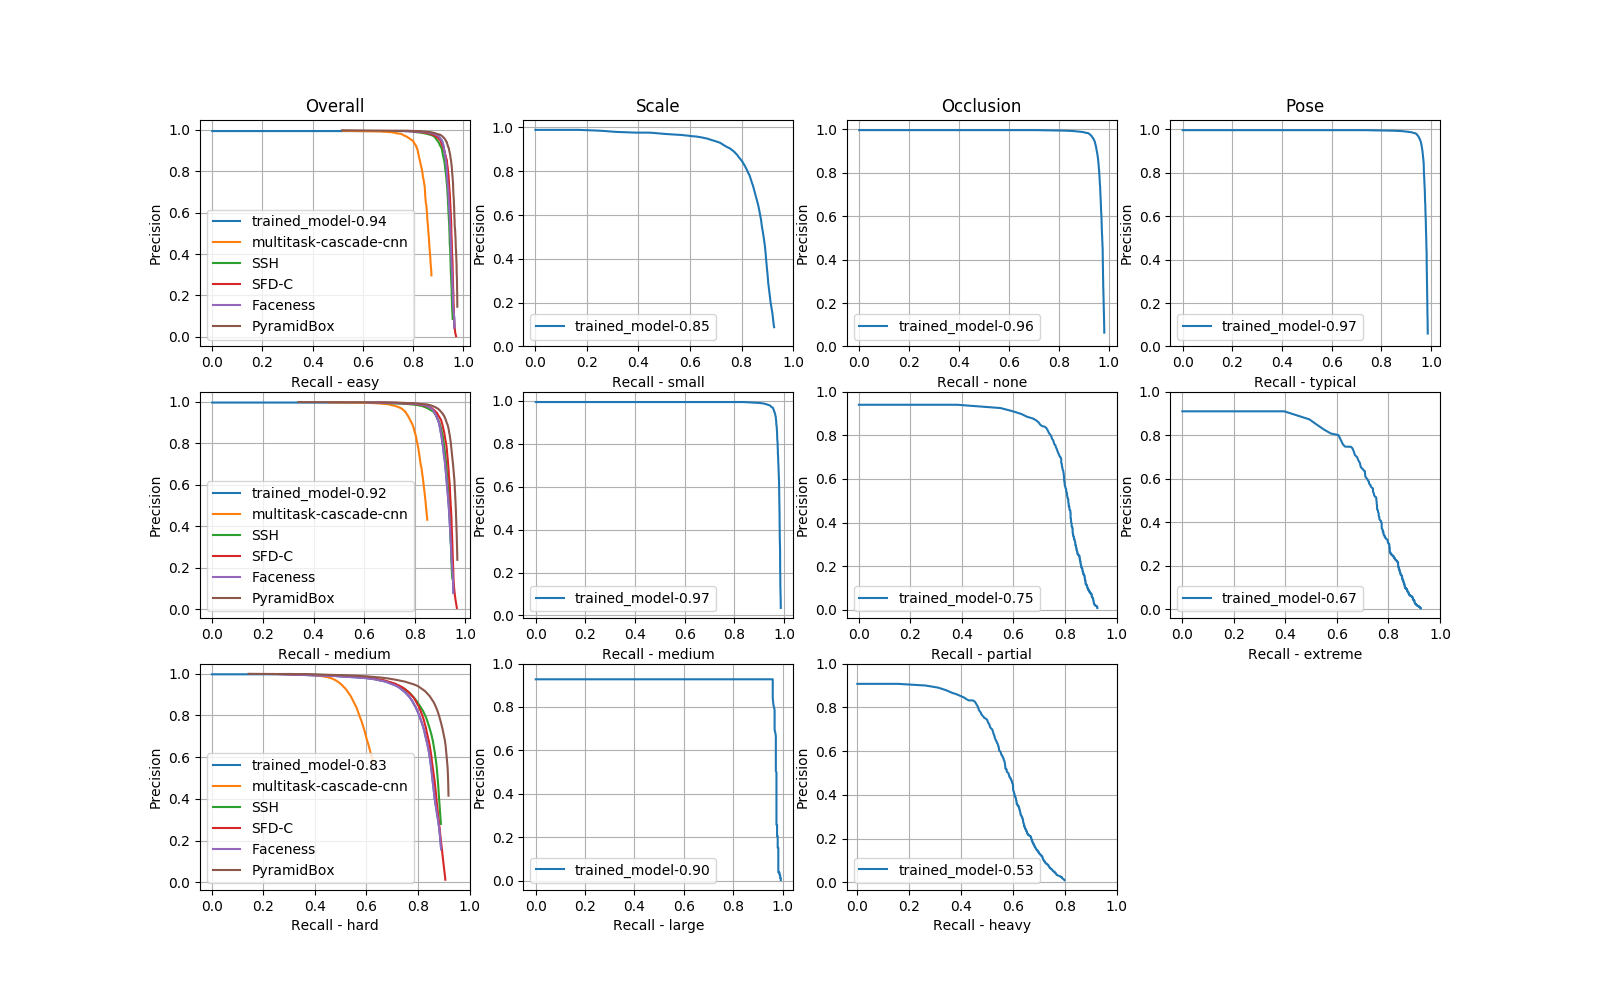
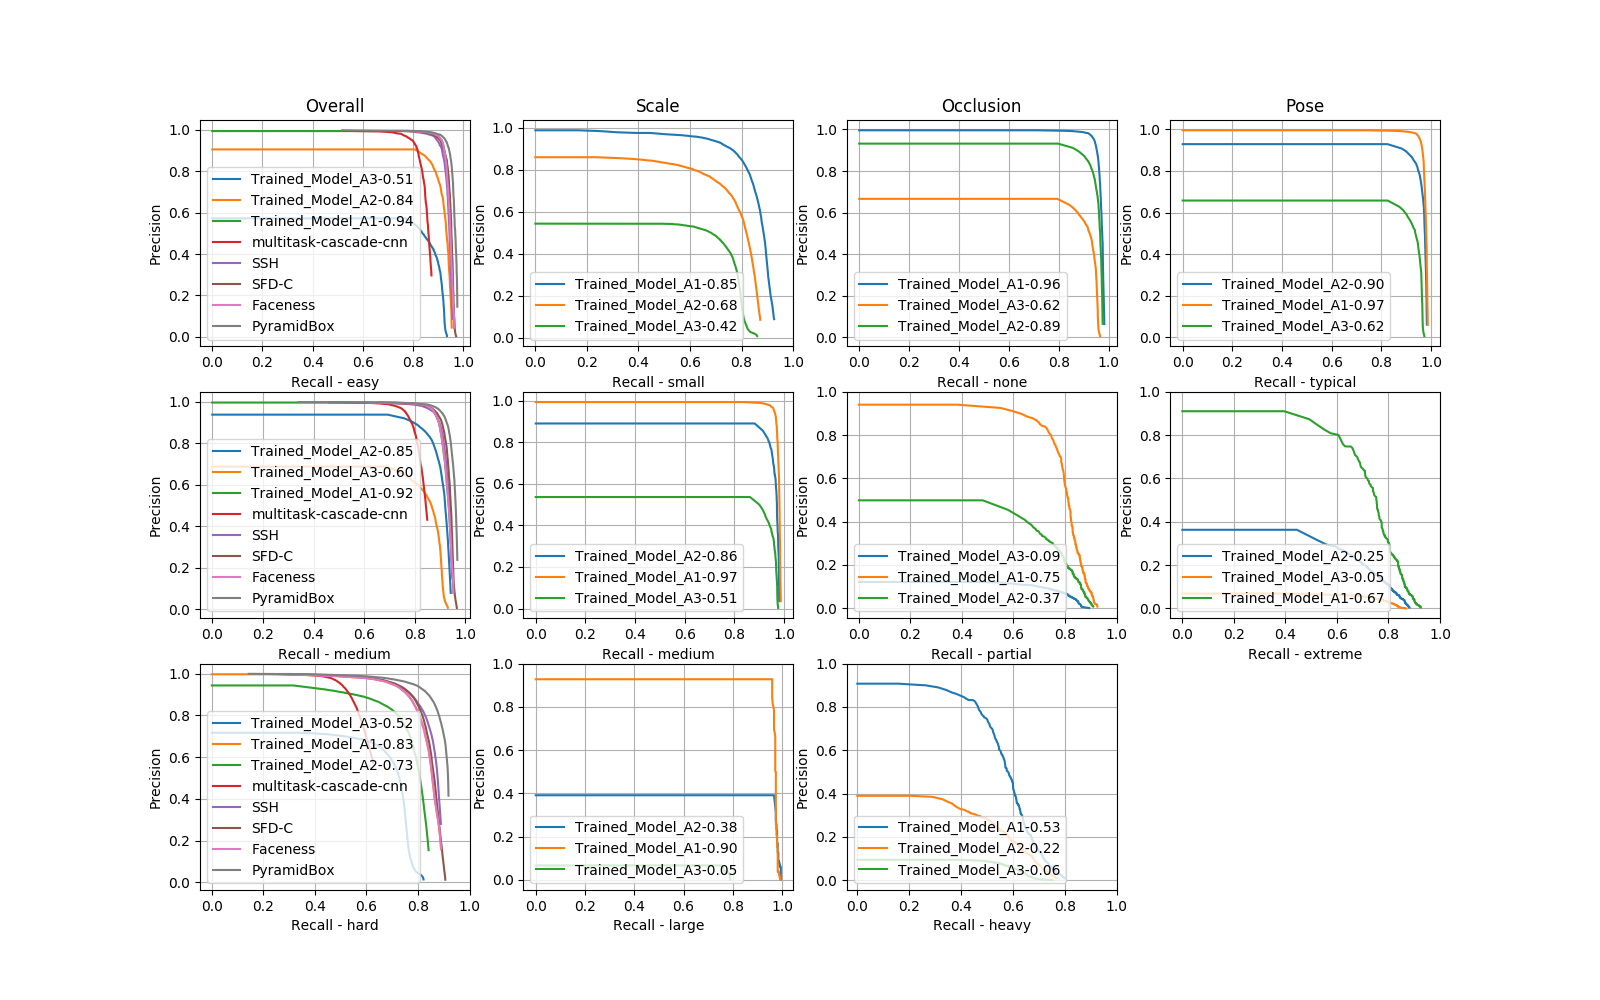
update test instructions

diff --git a/sfd_test_code/evaluation/plot_wider.py b/sfd_test_code/evaluation/plot_wider.py
@@ -54,11 +54,13 @@ if __name__ == '__main__':
     dets_path = args.path
     baselines = [join(args.baselines, baseline) for baseline in TO_PLOT]
 
+    print("Loading detected faces of:")
     models_det_faces = {}
     for test_model in listdir(dets_path):
-        det_faces = parse_detected_faces(join(dets_path, test_model))
         codename = [v for c, v in CODENAMES.iteritems() if c in test_model]
         codename = codename[0] if len(codename) == 1 else test_model
+        print("\t{} -> {}".format(test_model, codename))
+        det_faces = parse_detected_faces(join(dets_path, test_model))
         models_det_faces[codename] = normalize_scores(det_faces)
 
     # Compute PR curves for Overall, Scale, Occlusion and Pose
@@ -68,14 +70,17 @@ if __name__ == '__main__':
 
     print("Testing Overall")
     for level in overall_levels:
+        print("   {}".format(level.upper()))
         gt_files[level] = load_mat_file(join(args.matlab_faces, 'wider_{}_val.mat'.format(level)))
         gt_faces, gt_keep = parse_gt_faces(gt_files[level])
         for model_name, det_faces in models_det_faces.iteritems():
+            print("\t{}".format(model_name))
             precision, recall = compute_prec_rec(det_faces, gt_faces, gt_keep)
             ap = compute_ap(precision, recall)
             precision, recall, _ = correct_pr_curve(precision, recall)
             overall_results[level]['{0}-{1:.2f}'.format(model_name, ap)] = (recall[:-1], precision[:-1])
         for baseline in TO_PLOT:
+            print("\t{}".format(baseline))
             path = join(args.baselines, baseline, 'wider_pr_info_{}_{}_val.mat'.format(baseline, level))
             precision, recall = parse_baseline(path)
             overall_results[level][baseline] = (recall[:-1], precision[:-1])
@@ -84,8 +89,10 @@ if __name__ == '__main__':
     scale_levels = ['small', 'medium', 'large']
     scale_results = {level: {} for level in scale_levels}
     for level in scale_levels:
+        print("   {}".format(level.upper()))
         gt_faces, gt_keep = parse_gt_faces(gt_files['easy'], assesment='scale', level=level)
         for model_name, det_faces in models_det_faces.iteritems():
+            print("\t{}".format(model_name))
             precision, recall = compute_prec_rec(det_faces, gt_faces, gt_keep)
             ap = compute_ap(precision, recall)
             precision, recall, _ = correct_pr_curve(precision, recall)
@@ -95,8 +102,10 @@ if __name__ == '__main__':
     occlusion_levels = ['none', 'partial', 'heavy']
     occlusion_results = {level: {} for level in occlusion_levels}
     for level in occlusion_levels:
+        print("   {}".format(level.upper()))
         gt_faces, gt_keep = parse_gt_faces(gt_files['easy'], assesment='occlusion', level=level)
         for model_name, det_faces in models_det_faces.iteritems():
+            print("\t{}".format(model_name))
             precision, recall = compute_prec_rec(det_faces, gt_faces, gt_keep)
             ap = compute_ap(precision, recall)
             precision, recall, _ = correct_pr_curve(precision, recall)
@@ -106,8 +115,10 @@ if __name__ == '__main__':
     pose_levels = ['typical', 'extreme']
     pose_results = {level: {} for level in pose_levels}
     for level in pose_levels:
+        print("   {}".format(level.upper()))
         gt_faces, gt_keep = parse_gt_faces(gt_files['easy'], assesment='pose', level=level)
         for model_name, det_faces in models_det_faces.iteritems():
+            print("\t{}".format(model_name))
             precision, recall = compute_prec_rec(det_faces, gt_faces, gt_keep)
             ap = compute_ap(precision, recall)
             precision, recall, _ = correct_pr_curve(precision, recall)
@@ -124,7 +135,7 @@ if __name__ == '__main__':
         axes[i, 0].set_xticks(ticks)
         axes[i, 0].set_yticks(ticks)
         axes[i, 0].set_ylabel("Precision")
-        axes[i, 0].legend()
+        axes[i, 0].legend(loc='lower left')
         axes[i, 0].grid(which='both')
         axes[i, 0].set_xlabel("Recall - {}".format(level))
     axes[0, 0].set_title("Overall")
@@ -137,7 +148,7 @@ if __name__ == '__main__':
         axes[i, 1].set_xlabel("Recall - {}".format(level))
         axes[i, 1].set_ylabel("Precision")
         axes[i, 1].grid(which='both')
-        axes[i, 1].legend()
+        axes[i, 1].legend(loc='lower left')
     axes[0, 1].set_title("Scale")
 
     for i, level in enumerate(occlusion_levels):
@@ -148,7 +159,7 @@ if __name__ == '__main__':
         axes[i, 2].set_xlabel("Recall - {}".format(level))
         axes[i, 2].set_ylabel("Precision")
         axes[i, 2].grid(which='both')
-        axes[i, 2].legend()
+        axes[i, 2].legend(loc='lower left')
     axes[0, 2].set_title("Occlusion")
 
     for i, level in enumerate(pose_levels):
@@ -159,7 +170,7 @@ if __name__ == '__main__':
         axes[i, 3].set_xlabel("Recall - {}".format(level))
         axes[i, 3].set_ylabel("Precision")
         axes[i, 3].grid(which='both')
-        axes[i, 3].legend()
+        axes[i, 3].legend(loc='lower left')
     axes[0, 3].set_title("Pose")
     axes[-1, -1].axis('off')
 

diff --git a/sfd_test_code/evaluation/utils/pr_utils.py b/sfd_test_code/evaluation/utils/pr_utils.py
@@ -12,12 +12,14 @@ def normalize_scores(det_faces):
     min_score = 100
     for event in det_faces:
         for img in det_faces[event]:
-            max_score = max(det_faces[event][img][:, 4].max(), max_score)
-            min_score = min(det_faces[event][img][:, 4].min(), min_score)
+            if len(det_faces[event][img]) != 0:
+                max_score = max(det_faces[event][img][:, 4].max(), max_score)
+                min_score = min(det_faces[event][img][:, 4].min(), min_score)
 
     for event in det_faces:
         for img in det_faces[event]:
-            det_faces[event][img][:, 4] = (det_faces[event][img][:, 4] - min_score) / float(max_score - min_score)
+            if len(det_faces[event][img]) != 0:
+                det_faces[event][img][:, 4] = (det_faces[event][img][:, 4] - min_score) / float(max_score - min_score)
 
     return det_faces
             
@@ -109,12 +111,13 @@ def compute_prec_rec(det_faces, gt_faces, gt_keep):
     The dicts are generated by parse_detected_faces and parse_gt_faces 
     respectively.
     """
-    all_interp_pr = []
+    total_imgs = np.sum([len(gt_faces[e]) for e in gt_faces])
+    all_interp_pr = np.zeros((total_imgs, THRESHOLDS, 2), dtype=np.float32)
     count = 0
-    n_imgs = 0
+    img_idx = -1 
     for event in det_faces:
         for img in det_faces[event]:
-            n_imgs += 1
+            img_idx += 1
             img_faces = det_faces[event][img]
             img_gt_faces = gt_faces[event][img]
             img_gt_keep = gt_keep[event][img]
@@ -125,13 +128,13 @@ def compute_prec_rec(det_faces, gt_faces, gt_keep):
 
             pred_recalls, proposals = compute_pr(img_faces, img_gt_faces, img_gt_keep)
             interp_pr = compute_tp_fp(img_faces, pred_recalls, proposals)
-            all_interp_pr.append(interp_pr)
+            all_interp_pr[img_idx, :, :] = interp_pr
 
     tpfp = np.zeros(THRESHOLDS)
     tp = np.zeros(THRESHOLDS)
-    for i in range(n_imgs):
-        tpfp = tpfp + all_interp_pr[i][:, 0]
-        tp = tp + all_interp_pr[i][:, 1]
+    for elem in all_interp_pr:
+        tpfp = tpfp + elem[:, 0]
+        tp = tp + elem[:, 1]
 
     prec = tp / tpfp
     recall = tp / float(count)

diff --git a/sfd_test_code/sfd_detector.py b/sfd_test_code/sfd_detector.py
@@ -76,14 +76,14 @@ class SFD_NET(caffe.Net):
         transformer = self.get_transformer(self.blobs[self.inputs[0]].data.shape)
         transformed_image = transformer.preprocess(self.inputs[0], img)
         self.blobs[self.inputs[0]].data[...] = transformed_image
-        detections = self.forward()['detection_out']
+        detections = self.forward()['detection_out'].astype(np.float64)
 
         # Adjust SFD output to image size
         det_conf = detections[0, 0, :, 2]
-        det_xmin = detections[0, 0, :, 3] * width / shrink
-        det_ymin = detections[0, 0, :, 4] * height / shrink
-        det_xmax = detections[0, 0, :, 5] * width / shrink
-        det_ymax = detections[0, 0, :, 6] * height / shrink
+        det_xmin = detections[0, 0, :, 3] * (width / shrink)
+        det_ymin = detections[0, 0, :, 4] * (height / shrink)
+        det_xmax = detections[0, 0, :, 5] * (width / shrink)
+        det_ymax = detections[0, 0, :, 6] * (height / shrink)
         det = np.column_stack((det_xmin, det_ymin, det_xmax, det_ymax, det_conf))
 
         keep_index = np.where(det[:, 4] >= 0)[0]

diff --git a/sfd_test_code/evaluation/utils/io_utils.py b/sfd_test_code/evaluation/utils/io_utils.py
@@ -31,8 +31,9 @@ def parse_det_file(path):
 
     faces = np.array(lines, dtype=float)
     sorted_faces = faces
-    sorted_faces[:, 2] = sorted_faces[:, 0] + sorted_faces[:, 2]
-    sorted_faces[:, 3] = sorted_faces[:, 1] + sorted_faces[:, 3]
+    if len(sorted_faces) != 0:
+        sorted_faces[:, 2] = sorted_faces[:, 0] + sorted_faces[:, 2]
+        sorted_faces[:, 3] = sorted_faces[:, 1] + sorted_faces[:, 3]
     return sorted_faces
 
 

diff --git a/sfd_test_code/evaluation/README.md b/sfd_test_code/evaluation/README.md
@@ -22,10 +22,42 @@ python2.7 plot_wider.py -p /path/where/predicted/bboxes/are -m /path/where/groun
 python2.7 plot_wider.py -p ../output/WIDER_FACE/eval_tools/pred_orig -m ../output/WIDER_FACE/eval_tools/ground_truth -b ../output/WIDER_FACE/eval_tools/plot/baselines/Val/setting_in
 ```
 
-Currently, the script compares the trained model on the Overall split against the following baselines: PyramidBox, SFD-C, multitask-cascade-cnn, Faceness and SSH.
-Those baselines can be found [here](http://mmlab.ie.cuhk.edu.hk/projects/WIDERFace/WiderFace_Results.html) (search for the `Val PR curves`).
-Most of them are already included in the `eval_tools` provided by WIDER. However, PyramidBox and SFD-C have to be downloaded separately and put inside `eval_tools/plot/baselines/Val/setting_int`.
+Currently, the script compares the trained model on the Overall split against the following baselines: `PyramidBox`, `SFD-C`, `multitask-cascade-cnn`, `Faceness` and `SSH`.
+Most of them are already included in the [`eval_tools`](http://mmlab.ie.cuhk.edu.hk/projects/WIDERFace/support/eval_script/eval_tools.zip) provided by WIDER. However, `PyramidBox` and `SFD-C` have to be downloaded separately and put inside `eval_tools/plot/baselines/Val/setting_int`.
+Those missing baselines can be found [here](http://mmlab.ie.cuhk.edu.hk/projects/WIDERFace/WiderFace_Results.html) (search for the `Val PR curves` links).
 
-The resulting plot is like this:
+The scripts takes the following arguments:
+
+```
+-p  A folder where all the _TESTED_ models' outputs are. The structure of the folder should be like:
+    .
+    +-- _Original
+    |   +-- 0--Parade 
+    |   +-- 10--People_Marching
+    |   +-- etc
+    +-- _SFD-640x640-1CH-VGG-CaffeSSD-Float32-Dense_iter_120000
+    |   +-- 0--Parade 
+    |   +-- 10--People_Marching
+    |   +-- etc
+    +-- _SFD-640x640-3CH-VGG-CaffeSSD-Float32-Dense
+    |   +-- 0--Parade 
+    |   +-- 10--People_Marching
+    |   +-- etc
+
+    The important thing is that each model should have its own separate folder with its corresponding detections (and the name of the folder should respect the ones in [here](../../models/README.md)
+
+-m  Folder where the groundtruth labels in .mat format are. This labels come with the eval_tools provided by WIDER homepage
+
+-b  Folder where the other models baselines are. This folder also comes with the eval_tools provided by WIDER homepage.
+```
+
+Example:
+```
+python2.7 plot_wider.py -p ../tests_output/ -m ../output/WIDER_FACE/eval_tools/ground_truth -b ../output/WIDER_FACE/eval_tools/plot/baselines/Val/setting_int
+```
+
+Read the subsection "Test SFD on WIDER FACE" [here](../../docs/Test-Instructions.md) for more details on how to create the folder required for the parameter `-p`.
+
+The resulting plot should look like this:
 
 ![](./WIDER_metrics.png)

diff --git a/docs/Test-Instructions.md b/docs/Test-Instructions.md
@@ -75,23 +75,22 @@ matlab -nodesktop -nosplash -nojvm -r "run fitting.m;quit;"
 ```
 cd $SFD_ROOT/sfd_test_code/
 # Example:
-python2.7 test_wider.py -p ../datasets/WIDER/WIDER_val/images/ -s val --device 0
-# Run test_wider.py -h in oder to receive a list of valid arguments
-```
+python2.7 test_wider.py -p ../datasets/WIDER/WIDER_val/images/ -s val --device 0 --model path/to/deploy.prototxt --weights path/to/caffemodel -g -o tests_output/
 
 ```
-# If you want to get the results of val set in the original paper, you should use the provided "eval_tools_old-version". 
-# Or you can use latest eval_tools of WIDER FACE.
-# There is a slight difference between them, since the annotation used for the evaluation is slightly change around March 2017.
-```
+Run `test_wider.py -h` to get a full list of valid arguments.
+
+Note that you must provide `-g` if you are testing a model trained with 1 channel images (and also provide the path to the 1Channel images/model as well).
+
+The option `-o` is the directory where you want to save your detections. It is mandatory and it is recommended to use a common directory to save the results when testing several models. Doing so will easy the process of plotting the mAP metric as explained [here](../sfd_test_code/evaluation/README.md).
 
 ##### Check mAP for the Validation set of WIDER
 
 1. Once you have run `test_wider.py` for the Validation split and obtained the results (they should be stored by default in ), you can check the mAP for each of the `easy`, `medium` and `hard` settings of the dataset (each level has more and smaller faces) by using the `wider_eval.py` script.
-2. Make sure you know where your detections are and where the `*.mat` files with the groundtruth labels for each level are located. By default, the detected faces are saved in the submission format of WIDER in `$SFD_ROOT/sfd_test_code/output/WIDER_FACE/eval_tools/sfd_val`. The `*.mat` files are located in `$SFD_ROOT/sfd_test_code/output/WIDER_FACE/eval_tools/ground_truth/`.
+2. Make sure you know where your detections are and where the `*.mat` files with the groundtruth labels for each level are located. The `*.mat` files are located within `eval_tools/ground_truth/`, which you can download [here](http://mmlab.ie.cuhk.edu.hk/projects/WIDERFace/support/eval_script/eval_tools.zip).
 3. Run:
     ```
-    python2.7 wider_eval.py -p ./path/to/detections/ -m ./path/to/wider_{easy,medium,hard}_val.mat
+    python2.7 wider_eval.py -p ./path/to/detections/ -m ./path/to/eval_tools/ground_truth/wider_{easy,medium,hard}_val.mat
     ```
 4. You should get an output like:
     ```
